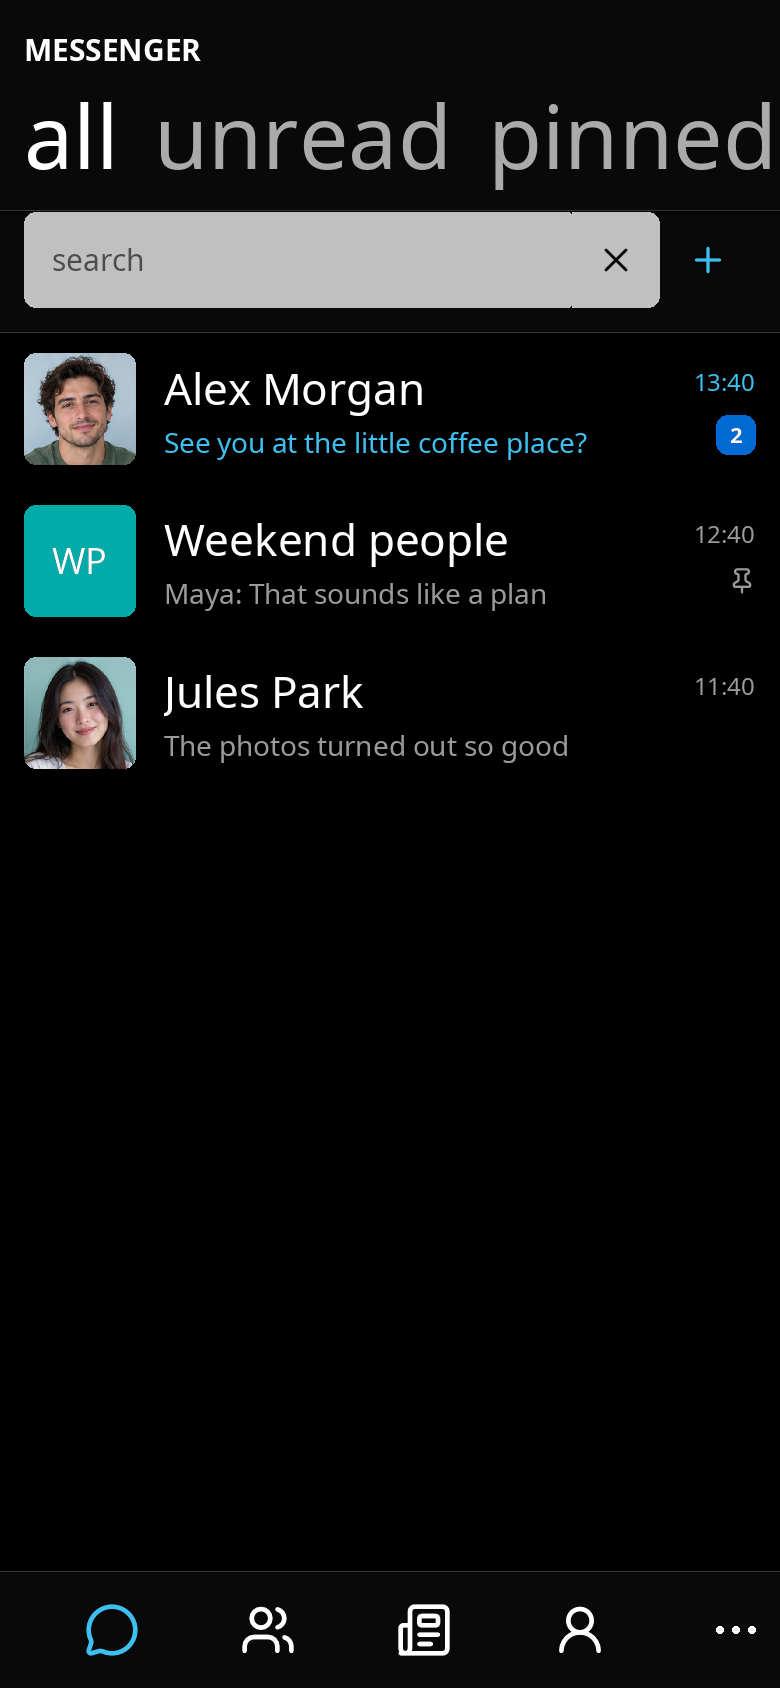
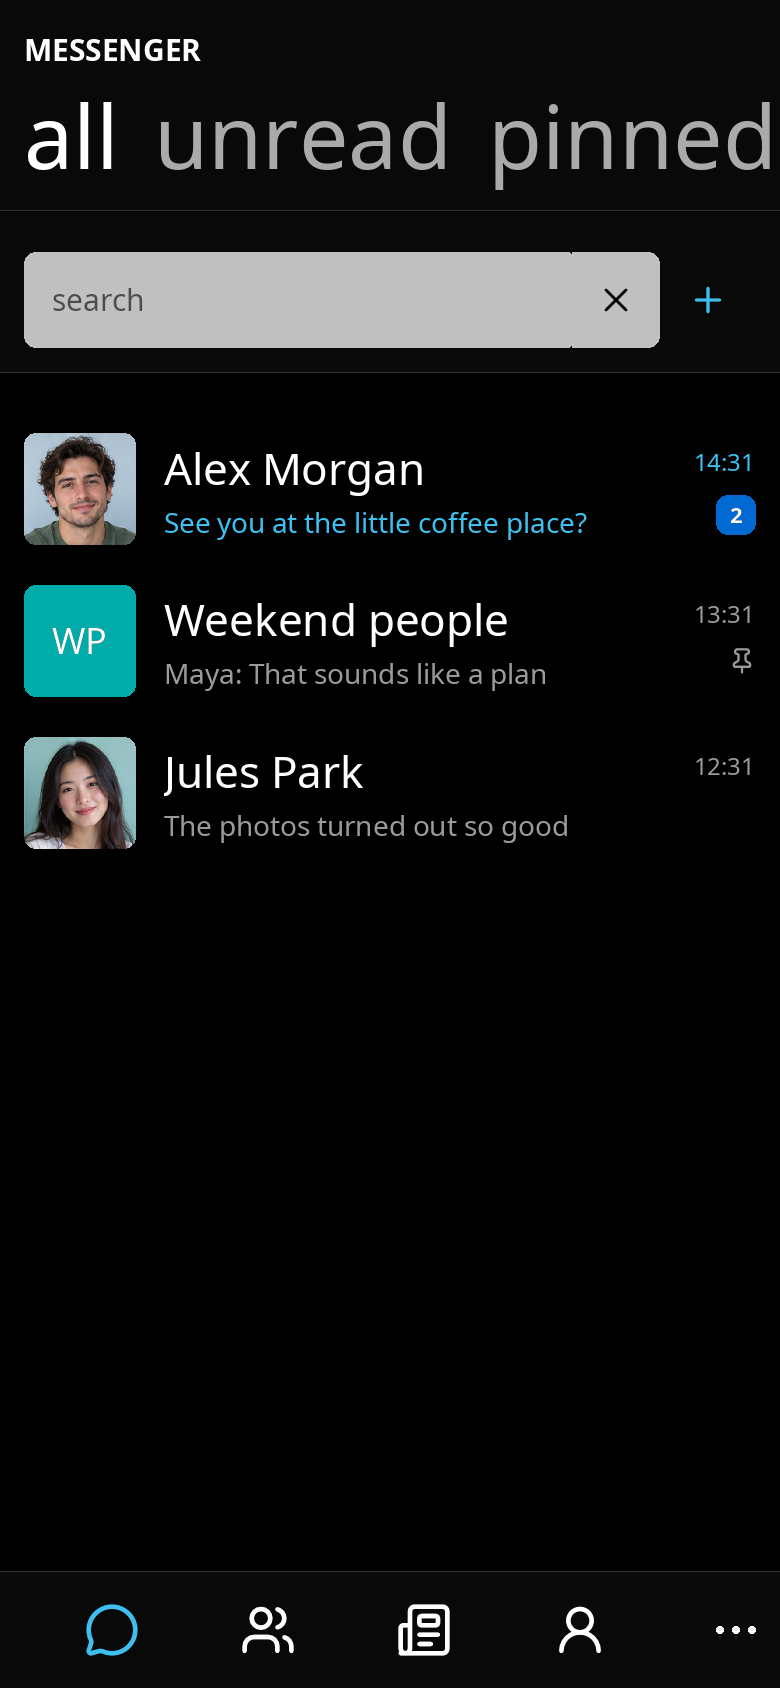
Make the Pivot own page padding for docked bars too
Docked top bars (inbox, new message and post search) meet the header's
edge so their frosted background continues it. That bypassed the Pivot's
content padding, so each bar had to pad itself and all used 0: search
fields touched the header and content touched the bar's lower edge.

As a Windows Phone PivotItem's template margin, the container now owns
the gap: below an ancestor's bar, the remaining safe area is page padding.
A docked bar (unless ContentInsetAdjustment is Never) extends through it
and insets its content by it (new private Node2D._barPadding), and the
padding continues below the bar. System insets keep their old handling.
test_pivot_content_padding pins the rule for content and docked bars.

Claude-Session: https://claude.ai/code/session_01Gft4n1SvxiHoyhesmJKePD

diff --git a/plugins/UIKit/Node2D.c b/plugins/UIKit/Node2D.c
@@ -843,8 +843,10 @@ Node2D_AdjustContentInset(struct Object *object, struct Node2D *node)
 {
   bool_t adjust = node->ContentInsetAdjustment == kContentInsetAdjustmentAlways ||
     (node->ContentInsetAdjustment == kContentInsetAdjustmentAutomatic && node->Overflow.y == kOverflowScroll);
-  struct vec2 inset = adjust ? node->_safeArea : (struct vec2){ 0 };
-  if (adjust) node->_safeArea = node->_barInset = (struct vec2){ 0 };
+  // A docked bar's background reaches its ancestor's bar, but its content
+  // keeps the page padding, so no bar needs its own padding toward the header.
+  struct vec2 inset = adjust ? node->_safeArea : node->_barPadding;
+  if (adjust || inset.x || inset.y) node->_safeArea = node->_barInset = (struct vec2){ 0 };
   float values[2] = { inset.x, inset.y };
   uint32_t const ids[2] = { ID_Node2D_AdjustedContentInsetTop, ID_Node2D_AdjustedContentInsetBottom };
   float *edges[2] = { &NODE2D_INSET(node)._RIGHT, &NODE2D_INSET(node)._LEFT };
@@ -1063,7 +1065,8 @@ HANDLER(Node2D, Node2D, MeasureOverride)
 // other children are laid out under them, and the area the bars cover joins
 // the safe area that reaches those children. A bar that always insets its
 // content extends through the system inset at its edge, like an iOS toolbar
-// under the home indicator, while its content stays clear of it.
+// under the home indicator, while its content stays clear of it. Any other
+// bar (unless Never) extends through the page padding below an ancestor's bar.
 static void
 Node2D_ArrangeBars(struct Object *hObject, struct Node2D *pNode2D,
                    Node2D_ArrangeOverrideMsgPtr pArrangeOverride)
@@ -1075,14 +1078,28 @@ Node2D_ArrangeBars(struct Object *hObject, struct Node2D *pNode2D,
     MAX(pNode2D->_safeArea.x - top, 0),
     MAX(pNode2D->_safeArea.y - (height - bottom), 0),
   };
+  // Below an ancestor's bar, the rest of the safe area is the page's content
+  // padding (a Pivot's top padding), not a system inset: it stays between
+  // these bars and the content too, as Windows Phone's PivotItem margin did.
+  struct vec2 padding = {
+    pNode2D->_barInset.x > 0 ? system.x : 0,
+    pNode2D->_barInset.y > 0 ? system.y : 0,
+  };
   bool_t docked[2] = { FALSE, FALSE };
   FOR_EACH_LAYOUTABLE(hChild, hObject) {
     struct Node2D *child = GetNode2D(hChild);
     if (child->SafeAreaEdge == kSafeAreaEdgeNone) continue;
     bool_t atTop = child->SafeAreaEdge == kSafeAreaEdgeTop;
     float size = NODE2D_FRAME(child, Size, 1).Desired + TOTAL_MARGIN(child, 1);
-    if (child->ContentInsetAdjustment == kContentInsetAdjustmentAlways && !docked[!atTop])
+    bool_t first = !docked[!atTop];
+    child->_barPadding = (struct vec2){ 0 };
+    if (child->ContentInsetAdjustment == kContentInsetAdjustmentAlways && first) {
       size += atTop ? system.x : system.y;
+    } else if (child->ContentInsetAdjustment == kContentInsetAdjustmentAutomatic && first) {
+      float pad = atTop ? padding.x : padding.y;
+      size += pad;
+      child->_barPadding = atTop ? (struct vec2){ pad, 0 } : (struct vec2){ 0, pad };
+    }
     Layout_Arrange(hChild,
                  .X = pArrangeOverride->X,
                  .Y = atTop ? top : bottom - size,
@@ -1093,11 +1110,11 @@ Node2D_ArrangeBars(struct Object *hObject, struct Node2D *pNode2D,
   }
   if (docked[0]) {
     pNode2D->_barInset.x = MAX(pNode2D->_barInset.x, top);
-    pNode2D->_safeArea.x = MAX(pNode2D->_safeArea.x, top);
+    pNode2D->_safeArea.x = MAX(pNode2D->_safeArea.x, top + padding.x);
   }
   if (docked[1]) {
     pNode2D->_barInset.y = MAX(pNode2D->_barInset.y, height - bottom);
-    pNode2D->_safeArea.y = MAX(pNode2D->_safeArea.y, height - bottom);
+    pNode2D->_safeArea.y = MAX(pNode2D->_safeArea.y, height - bottom + padding.y);
   }
 }
 

diff --git a/docs/UI_SYSTEM.md b/docs/UI_SYSTEM.md
@@ -192,6 +192,14 @@ is inset, as `adjustedContentInset` insets it on iOS.
   publishes the applied inset as `AdjustedContentInsetTop` and
   `AdjustedContentInsetBottom`: the visible part of a scrolling node lies
   between them, for example to find the first message below the header.
+- Page padding is owned by the container, as a Windows Phone `PivotItem`
+  template margin was. `Pivot` keeps 20 points between its header's edge and
+  the page. When the body extends behind the header, that padding is part of
+  its safe area: scrolling content rests 20 points below the header, a docked
+  top bar (unless `Never`) still meets the header's edge but insets its own
+  content by the padding, and content below that bar keeps the padding too.
+  Bars and pages therefore declare no top padding toward the header.
+  `tests/test_metro.lua` (`test_pivot_content_padding`) pins this.
 - `ScrollAnchor = "Bottom"`, after SwiftUI's `defaultScrollAnchor(.bottom)`,
   keeps a scrolling node that is at its end at its end when layout changes its
   content or insets: a chat stays at its newest message as the keyboard opens

diff --git a/docs/windows-phone-ui-cheatsheet.md b/docs/windows-phone-ui-cheatsheet.md
@@ -99,7 +99,7 @@ explicit exception, not an error to round to eight.
 | Pattern | Logical units | Owner / interpretation |
 | --- | --- | --- |
 | Metro leading/trailing inset | 12 | `plugins/UIKit/Metro.h`; Pivot arranges the item inside it |
-| Pivot title / selected header | 15 / 44 font size | `Pivot.c`; title top 14, title-to-header offset 2, header-to-hairline 8, hairline-to-content 20 |
+| Pivot title / selected header | 15 / 44 font size | `Pivot.c`; title top 14, title-to-header offset 2, header-to-hairline 8, hairline-to-content 20; the Pivot owns that 20 for page content and docked bars, as the PivotItem template margin did |
 | Pivot header spacing | 18 | Engine header-strip metric, not general form spacing |
 | Panorama title / section header | 110 / 36 font size | `Panorama.c`; section width factor 0.875 creates a next-section hint |
 | ApplicationBar normal / minimized height | 58 / 24 | `ApplicationBar.c`; system inset is additional |
